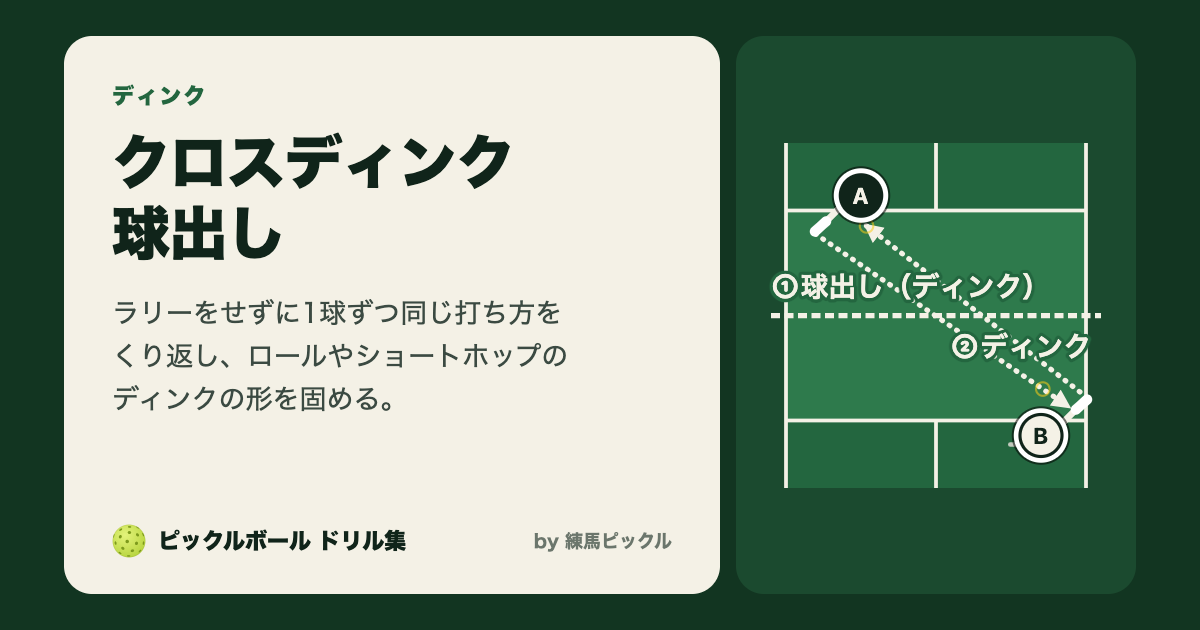
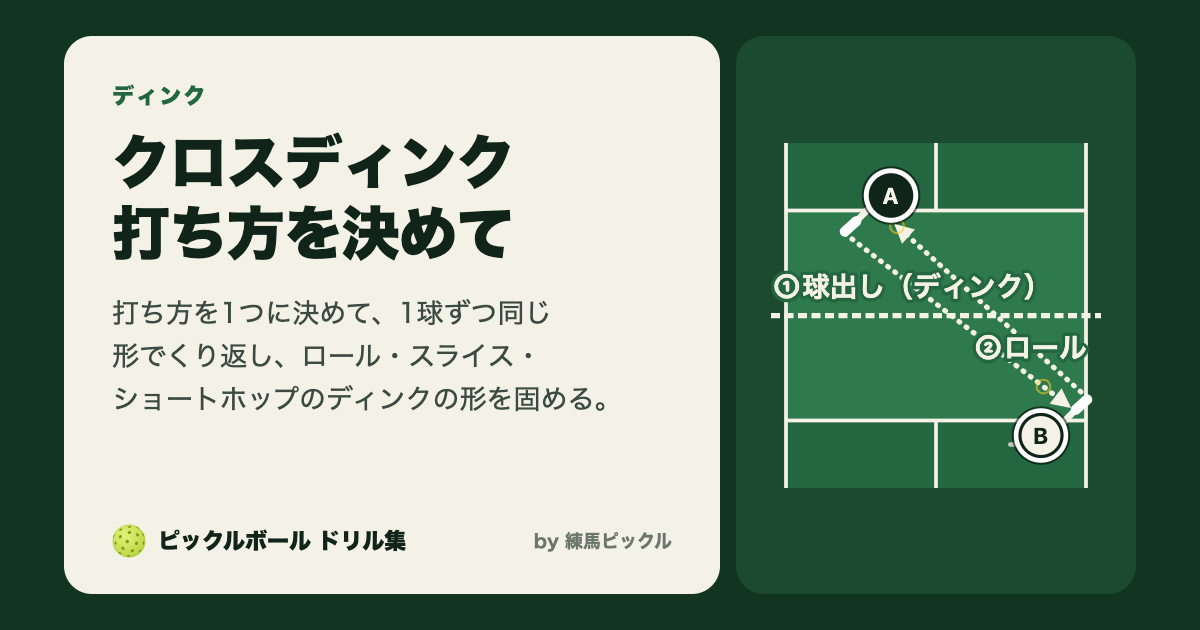
dnk006/dnk007: same drill, with or without a rally; shared title, variants (roll/slice/short hop) and text
Claude-Session: https://claude.ai/code/session_013HpVCpnFevpdjrfSLpZjQ3

diff --git a/src/content/docs/drills/dnk/dnk007.md b/src/content/docs/drills/dnk/dnk007.md
@@ -1,27 +1,30 @@
 ---
-title: クロスディンク 片方ロール・片方スライス/ショートホップ
-description: クロスのディンクのラリーで、片方はロール、もう片方はスライスかショートホップだけで打つ
+title: クロスディンク 打ち方を決めて
+description: 決めた打ち方（ロール・スライス・ショートホップ）で、クロスのディンクをラリーで打ち続ける
 sidebar:
   order: 8
 drill:
   id: dnk007
   category: dnk
+  aliases:
+    - クロスディンク 片方ロール・片方スライス/ショートホップ
   scene: 4人ともキッチンラインに並び、ディンクの打ち合いになっている。どちらかが浮いた球を出すと、相手に攻められる。
   purpose: 相手にノーバウンドで強く打たれない低さで、相手のキッチンに落とし続ける。コース・深さ・速さを変えて相手を揺さぶり、ミスや浮いた球を誘って、浮いた球をこちらから攻める。
-  focus: 回転の違う球を受けながら打ち合い、相手の球に合わせて自分の打ち方を保つ。
-  setup: 2人1組でクロス（対角）に入り、2人ともキッチンライン付近に立つ。2人とも、自分の半面の真ん中から少し相手の側に寄った位置（基本の位置）で待つ。片方はロールだけ、もう片方はスライスかショートホップだけで打つ。1面で2組同時にできる。
-  feed: どちらかがクロスにディンクを出して始める。
+  focus: 打ち方を1つに決めて、ラリーの中でも同じ形で打ち続け、ロール・スライス・ショートホップのディンクの形を固める。
+  setup: 2人1組でクロス（対角）に入り、2人ともキッチンライン付近に立つ。自分の半面の真ん中から少し相手の側に寄った位置（基本の位置）で待つ。打ち方を1つ（ロール・スライス・ショートホップ）決める。2人とも練習役になる。1面で2組同時にできる。
+  feed: どちらかが手元で一度弾ませてから、クロスにディンクを出して始める。返ってきた球はそのままラリーで返す。
   steps:
-    - 2人とも基本の位置で構える
-    - 相手が打ったら、サイドステップで横に動いて球に合わせ、打ったらすぐに基本の位置へ戻る
-    - A はロールのディンク、B はスライスかショートホップのディンクだけで、クロスに打ち合う
-    - そのままラリーを続ける
-    - 一定時間で打ち方を入れ替える
+    - 2人とも基本の位置で構えて待つ
+    - 相手が打ったら、サイドステップで横に動いて球に合わせる
+    - 来た球を、決めた打ち方のディンクでクロスに返す
+    - 返したらすぐに基本の位置へ戻る
+    - 一定時間で打ち方を変える
   points:
     - 体の横ではなく、体の前（足の前）で打つ
     - パドルのヘッドを下げた形から打ち出す。ストロークのように後ろから振らない
-    - 相手の回転で球の弾み方が変わるので、弾んだあとの球をよく見る
+    - 決めた打ち方を変えず、毎回同じ形で打つ
     - 打ったら必ず基本の位置へ戻る。最初から端で待たない
+  notes: 同じ練習を1球ずつ球出しで行う形がひとつ上の「クロスディンク 打ち方を決めて」（ラリーなし）。違いはラリーをするかどうかだけ。
   diagram:
     rally: 2
     players:
@@ -29,19 +32,30 @@ drill:
       - { id: B, at: near-rightInner-kitchen, sidestep: near-rightOuter-kitchen, role: practice }
     shots:
       - { from: A, to: B, type: dink, n: 1, bounce: front, label: ロール }
-      - { from: B, to: A, type: sliceDink, n: 2, bounce: front }
+      - { from: B, to: A, type: dink, n: 2, bounce: front, label: ロール }
   variants:
-    - { key: slice, name: スライス, default: true, note: B はスライスでディンク }
-    - key: hop
-      name: ショートホップ
-      note: B は弾んだ直後を打つショートホップでディンク
+    - { key: roll, name: ロール, default: true, note: ロール（トップスピン）でディンク }
+    - key: slice
+      name: スライス
+      note: スライスでディンク
       diagram:
         rally: 2
         players:
           - { id: A, at: far-leftInner-kitchen, sidestep: far-leftOuter-kitchen, role: practice }
           - { id: B, at: near-rightInner-kitchen, sidestep: near-rightOuter-kitchen, role: practice }
         shots:
-          - { from: A, to: B, type: dink, n: 1, bounce: front, label: ロール }
+          - { from: A, to: B, type: sliceDink, n: 1, bounce: front }
+          - { from: B, to: A, type: sliceDink, n: 2, bounce: front }
+    - key: hop
+      name: ショートホップ
+      note: 弾んだ直後の低いところを打つショートホップでディンク
+      diagram:
+        rally: 2
+        players:
+          - { id: A, at: far-leftInner-kitchen, sidestep: far-leftOuter-kitchen, role: practice }
+          - { id: B, at: near-rightInner-kitchen, sidestep: near-rightOuter-kitchen, role: practice }
+        shots:
+          - { from: A, to: B, type: shortHop, n: 1, bounce: front }
           - { from: B, to: A, type: shortHop, n: 2, bounce: front }
   builderDefault:
     min: 2

diff --git a/src/content/docs/drills/dnk/dnk006.md b/src/content/docs/drills/dnk/dnk006.md
@@ -1,45 +1,58 @@
 ---
-title: クロスディンク 球出し
-description: 球出しのクロスディンクを、決めた打ち方で1球ずつクロスに返す
+title: クロスディンク 打ち方を決めて
+description: 決めた打ち方（ロール・スライス・ショートホップ）で、球出しのクロスディンクを1球ずつ返す
 sidebar:
   order: 7
 drill:
   id: dnk006
   category: dnk
+  aliases:
+    - クロスディンク 球出し
   scene: 4人ともキッチンラインに並び、ディンクの打ち合いになっている。どちらかが浮いた球を出すと、相手に攻められる。
   purpose: 相手にノーバウンドで強く打たれない低さで、相手のキッチンに落とし続ける。コース・深さ・速さを変えて相手を揺さぶり、ミスや浮いた球を誘って、浮いた球をこちらから攻める。
-  focus: ラリーをせずに1球ずつ同じ打ち方をくり返し、ロールやショートホップのディンクの形を固める。
-  setup: 2人1組でクロス（対角）に入り、2人ともキッチンライン付近に立つ。練習役は自分の半面の真ん中から少し球出し役の側に寄った位置（基本の位置）で待つ。1面で2組同時にできる。
-  feed: 球出し役は手元で一度弾ませてから、練習役へクロスのディンクを出す。
+  focus: 打ち方を1つに決めて、1球ずつ同じ形でくり返し、ロール・スライス・ショートホップのディンクの形を固める。
+  setup: 2人1組でクロス（対角）に入り、2人ともキッチンライン付近に立つ。自分の半面の真ん中から少し相手の側に寄った位置（基本の位置）で待つ。打ち方を1つ（ロール・スライス・ショートホップ）決める。球出し役と練習役に分かれる。1面で2組同時にできる。
+  feed: 球出し役は手元で一度弾ませてから、練習役へクロスのディンクを出す。返ってきた球は打ち返さず、次の球を出す。
   steps:
     - 練習役は基本の位置で構えて待つ
-    - 球出し役が打ったら、サイドステップで横に動いて球に合わせる
-    - 来た球を、決めた打ち方（ロールかショートホップ）のディンクでクロスに返す
+    - 相手が打ったら、サイドステップで横に動いて球に合わせる
+    - 来た球を、決めた打ち方のディンクでクロスに返す
     - 返したらすぐに基本の位置へ戻る
-    - 球出し役は返ってきた球を打ち返さず、次の球を出す
     - 一定時間で球出し役と練習役を交代する
   points:
     - 体の横ではなく、体の前（足の前）で打つ
     - パドルのヘッドを下げた形から打ち出す。ストロークのように後ろから振らない
-    - 1球ごとに同じ形で打ち、打ち方を体に覚えさせる
-    - 返したら必ず基本の位置へ戻る。最初から端で待たない
+    - 決めた打ち方を変えず、毎回同じ形で打つ
+    - 打ったら必ず基本の位置へ戻る。最初から端で待たない
+  notes: 同じ練習をラリーで続ける形がひとつ下の「クロスディンク 打ち方を決めて」（ラリー）。違いはラリーをするかどうかだけ。
   diagram:
     rally: false
     players:
-      - { id: A, at: far-left-kitchen, role: feed }
+      - { id: A, at: far-leftInner-kitchen, role: feed }
       - { id: B, at: near-rightInner-kitchen, sidestep: near-rightOuter-kitchen, role: practice }
     shots:
       - { from: A, to: B, type: dink, feed: true, n: 1, bounce: front, afterBounce: true }
-      - { from: B, to: A.front, type: dink, n: 2 }
+      - { from: B, to: A.front, type: dink, n: 2, label: ロール }
   variants:
     - { key: roll, name: ロール, default: true, note: ロール（トップスピン）でディンク }
+    - key: slice
+      name: スライス
+      note: スライスでディンク
+      diagram:
+        rally: false
+        players:
+          - { id: A, at: far-leftInner-kitchen, role: feed }
+          - { id: B, at: near-rightInner-kitchen, sidestep: near-rightOuter-kitchen, role: practice }
+        shots:
+          - { from: A, to: B, type: dink, feed: true, n: 1, bounce: front, afterBounce: true }
+          - { from: B, to: A.front, type: sliceDink, n: 2 }
     - key: hop
       name: ショートホップ
       note: 弾んだ直後の低いところを打つショートホップでディンク
       diagram:
         rally: false
         players:
-          - { id: A, at: far-left-kitchen, role: feed }
+          - { id: A, at: far-leftInner-kitchen, role: feed }
           - { id: B, at: near-rightInner-kitchen, sidestep: near-rightOuter-kitchen, role: practice }
         shots:
           - { from: A, to: B, type: dink, feed: true, n: 1, bounce: front, afterBounce: true }

diff --git a/docs/decisions.md b/docs/decisions.md
@@ -366,3 +366,4 @@
 - 形: 弾んだ直後、球が上がりきる前のすねの高さ（約20cm）で取る。足を広げてひざを深く曲げ、上体を前へ倒す。手首は打つ前に固め、パドルの先は前下へ向けたまま、面を狙う方向へ向けて、ほとんど引かずに体の前で短く運ぶ。打つ瞬間に面を合わせにいかない。
 - 図: 打球の種類 `shortHop` を足した。次にショートホップで打つ人へ来る球は、受ける人のすぐ手前（約27cm）で弾む。dnk006 と dnk007 のショートホップの派生形に図を付けた。
 
+- dnk006 と dnk007 を、違いがラリーをするかどうかだけだと分かるようにそろえた（書き手の指摘）。題名を2本とも「クロスディンク 打ち方を決めて」にし、違いは「ラリー」「ラリーなし」の印で見せる。派生形（ロール・スライス・ショートホップ）、人数・配置、練習のコツを同じにし、2人とも同じ打ち方で打つ形にした。隣に並べ、補足に「違いはラリーをするかどうかだけ」と書いた。前の題名は別名に残した。
